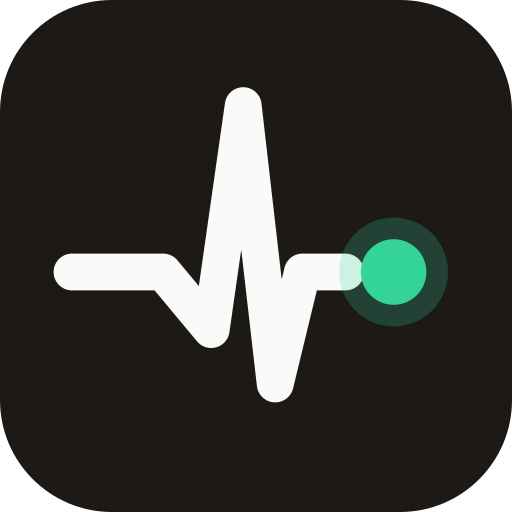
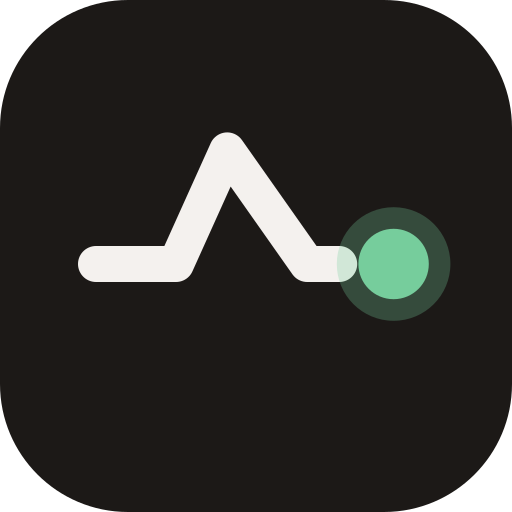
feat(branding): simplify the mark to one uptime spike and a live dot

diff --git a/src/components/brand-mark.tsx b/src/components/brand-mark.tsx
@@ -5,15 +5,20 @@ type BrandMarkProps = {
   strokeWidth?: number;
 };
 
+/** Keep in sync with `src/app/icon.svg` and `scripts/generate-pwa-splash.mjs`. */
+export const BRAND_MARK_PULSE_PATH = "M6 16.5 H11 L14.2 9.4 L19.2 16.5 H21.2";
+export const BRAND_MARK_DOT = { cx: 24.6, cy: 16.5, r: 2.2, haloR: 3.55 };
+
 /**
- * UPG Monitor brand mark: an uptime pulse line (currentColor) resolving into an
- * emerald "operational" status dot. Mirrors the app icon in src/app/icon.svg.
- * Decorative — always paired with the wordmark, so it's aria-hidden.
+ * UPG Monitor brand mark: one uptime spike resolving into a live operational
+ * dot. Geometry matches the app icon. Decorative — always paired with the
+ * wordmark, so it's aria-hidden.
  */
-export function BrandMark({ className, size, strokeWidth = 2.6 }: BrandMarkProps) {
+export function BrandMark({ className, size, strokeWidth = 2.25 }: BrandMarkProps) {
+  const { cx, cy, r, haloR } = BRAND_MARK_DOT;
   return (
     <svg
-      viewBox="2.5 3.5 26 26"
+      viewBox="0 0 32 32"
       width={size}
       height={size}
       className={className}
@@ -21,13 +26,14 @@ export function BrandMark({ className, size, strokeWidth = 2.6 }: BrandMarkProps
       aria-hidden="true"
     >
       <path
-        d="M4.5 17 H10.2 L13.2 20.6 L15.2 6.6 L17.2 24 L18.9 17 H21.6"
+        d={BRAND_MARK_PULSE_PATH}
         stroke="currentColor"
         strokeWidth={strokeWidth}
         strokeLinecap="round"
         strokeLinejoin="round"
       />
-      <circle cx="24.6" cy="17" r="2.4" fill="#10b981" />
+      <circle cx={cx} cy={cy} r={haloR} fill="var(--status-up)" opacity="0.22" />
+      <circle cx={cx} cy={cy} r={r} fill="var(--status-up)" />
     </svg>
   );
 }

diff --git a/src/app/page.tsx b/src/app/page.tsx
@@ -86,7 +86,7 @@ export default async function HomePage() {
           className="flex items-center gap-2 text-sm font-semibold text-text-primary"
           style={{ fontFamily: "var(--font-display)" }}
         >
-          <BrandMark className="size-4 shrink-0" />
+          <BrandMark className="size-5 shrink-0" />
           <span className="tracking-tight">UPG Monitor</span>
         </div>
         <div className="flex items-center gap-3">
@@ -450,7 +450,7 @@ export default async function HomePage() {
         </div>
         <div className="max-w-6xl mx-auto flex items-center justify-between gap-4">
           <span className="inline-flex items-center gap-2 text-xs text-text-muted">
-            <BrandMark className="size-3.5 shrink-0" />
+            <BrandMark className="size-4 shrink-0" />
             <span>UPG Monitor</span>
           </span>
           <Link

diff --git a/src/app/~offline/page.tsx b/src/app/~offline/page.tsx
@@ -16,7 +16,7 @@ export default async function OfflinePage() {
       <div className="w-full max-w-sm text-center">
         <div className="mb-8 flex flex-col items-center gap-4">
           <div className="flex h-14 w-14 items-center justify-center rounded-2xl bg-[var(--accent)] text-[var(--bg-page)]">
-            <BrandMark size={26} strokeWidth={2.5} />
+            <BrandMark size={26} />
           </div>
           <p className="text-xs font-semibold uppercase tracking-widest text-[var(--text-muted)] font-display">
             UPG Monitor

diff --git a/src/app/(auth)/register/page.tsx b/src/app/(auth)/register/page.tsx
@@ -97,7 +97,7 @@ export default function RegisterPage() {
       {/* Brand */}
       <div className="mb-8 flex flex-col items-center text-center">
         <div className="mb-4 flex h-12 w-12 items-center justify-center rounded-2xl bg-accent text-bg-page">
-          <BrandMark size={22} strokeWidth={2.5} />
+          <BrandMark size={24} />
         </div>
         <h1
           className="text-2xl font-semibold tracking-tight text-text-primary"

diff --git a/src/app/(auth)/setup/page.tsx b/src/app/(auth)/setup/page.tsx
@@ -97,7 +97,7 @@ export default function SetupPage() {
       {/* Brand */}
       <div className="mb-8 flex flex-col items-center text-center">
         <div className="mb-4 flex h-12 w-12 items-center justify-center rounded-2xl bg-accent text-bg-page">
-          <BrandMark size={22} strokeWidth={2.5} />
+          <BrandMark size={24} />
         </div>
         <h1
           className="text-2xl font-semibold tracking-tight text-text-primary"

diff --git a/src/app/(auth)/login/page.tsx b/src/app/(auth)/login/page.tsx
@@ -84,7 +84,7 @@ function LoginForm() {
       {/* Brand */}
       <div className="mb-8 flex flex-col items-center text-center">
         <div className="mb-4 flex h-12 w-12 items-center justify-center rounded-2xl bg-accent text-bg-page">
-          <BrandMark size={22} strokeWidth={2.5} />
+          <BrandMark size={24} />
         </div>
         <h1
           className="text-2xl font-semibold tracking-tight text-text-primary"

diff --git a/src/app/(app)/layout.tsx b/src/app/(app)/layout.tsx
@@ -43,7 +43,7 @@ export default async function AppLayout({
               className="flex shrink-0 items-center gap-2 text-sm font-semibold text-text-primary hover:text-text-muted"
               style={{ fontFamily: "var(--font-display)" }}
             >
-              <BrandMark className="size-4 shrink-0" />
+              <BrandMark className="size-5 shrink-0" />
               {t("appTitle")}
             </Link>
 
